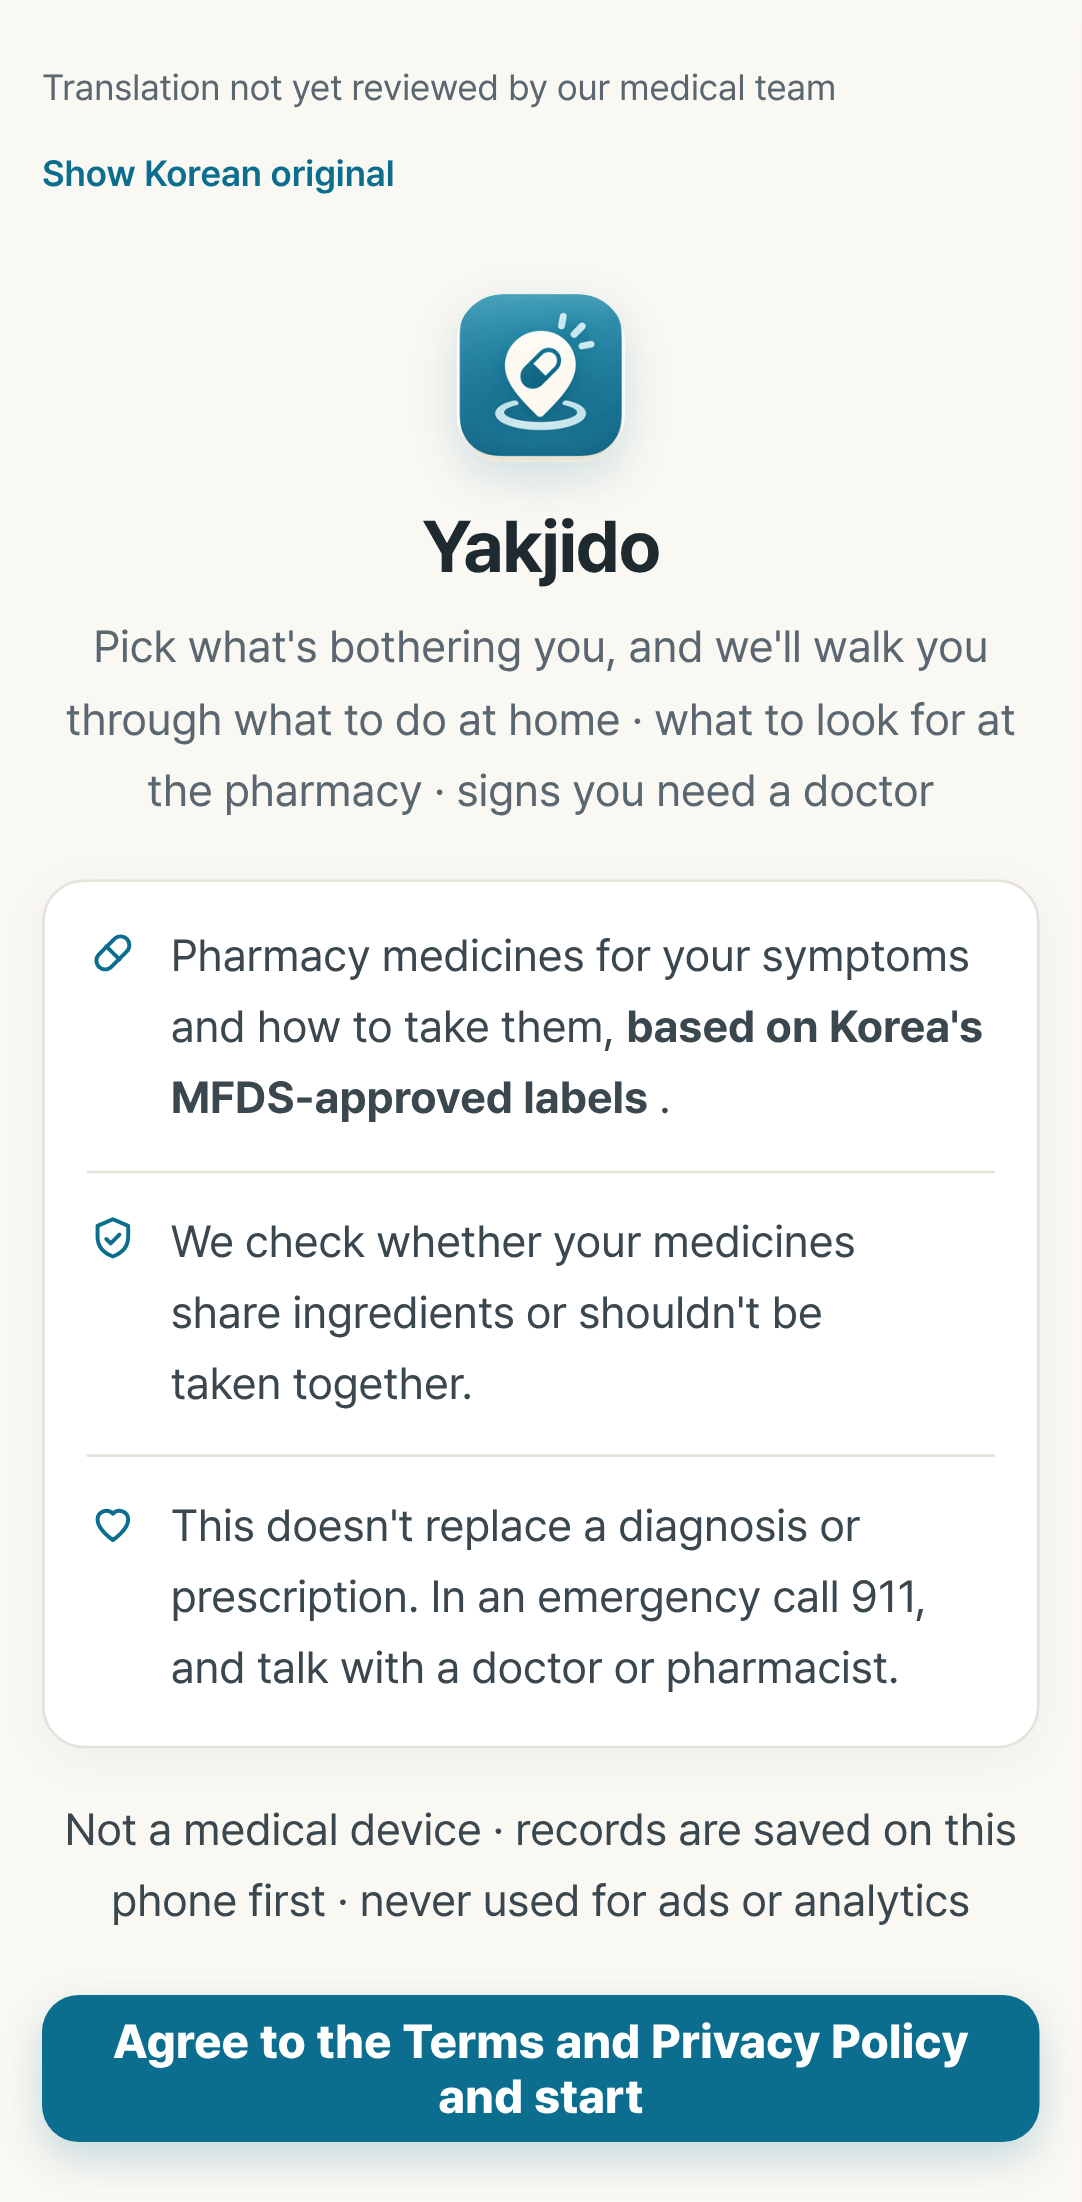
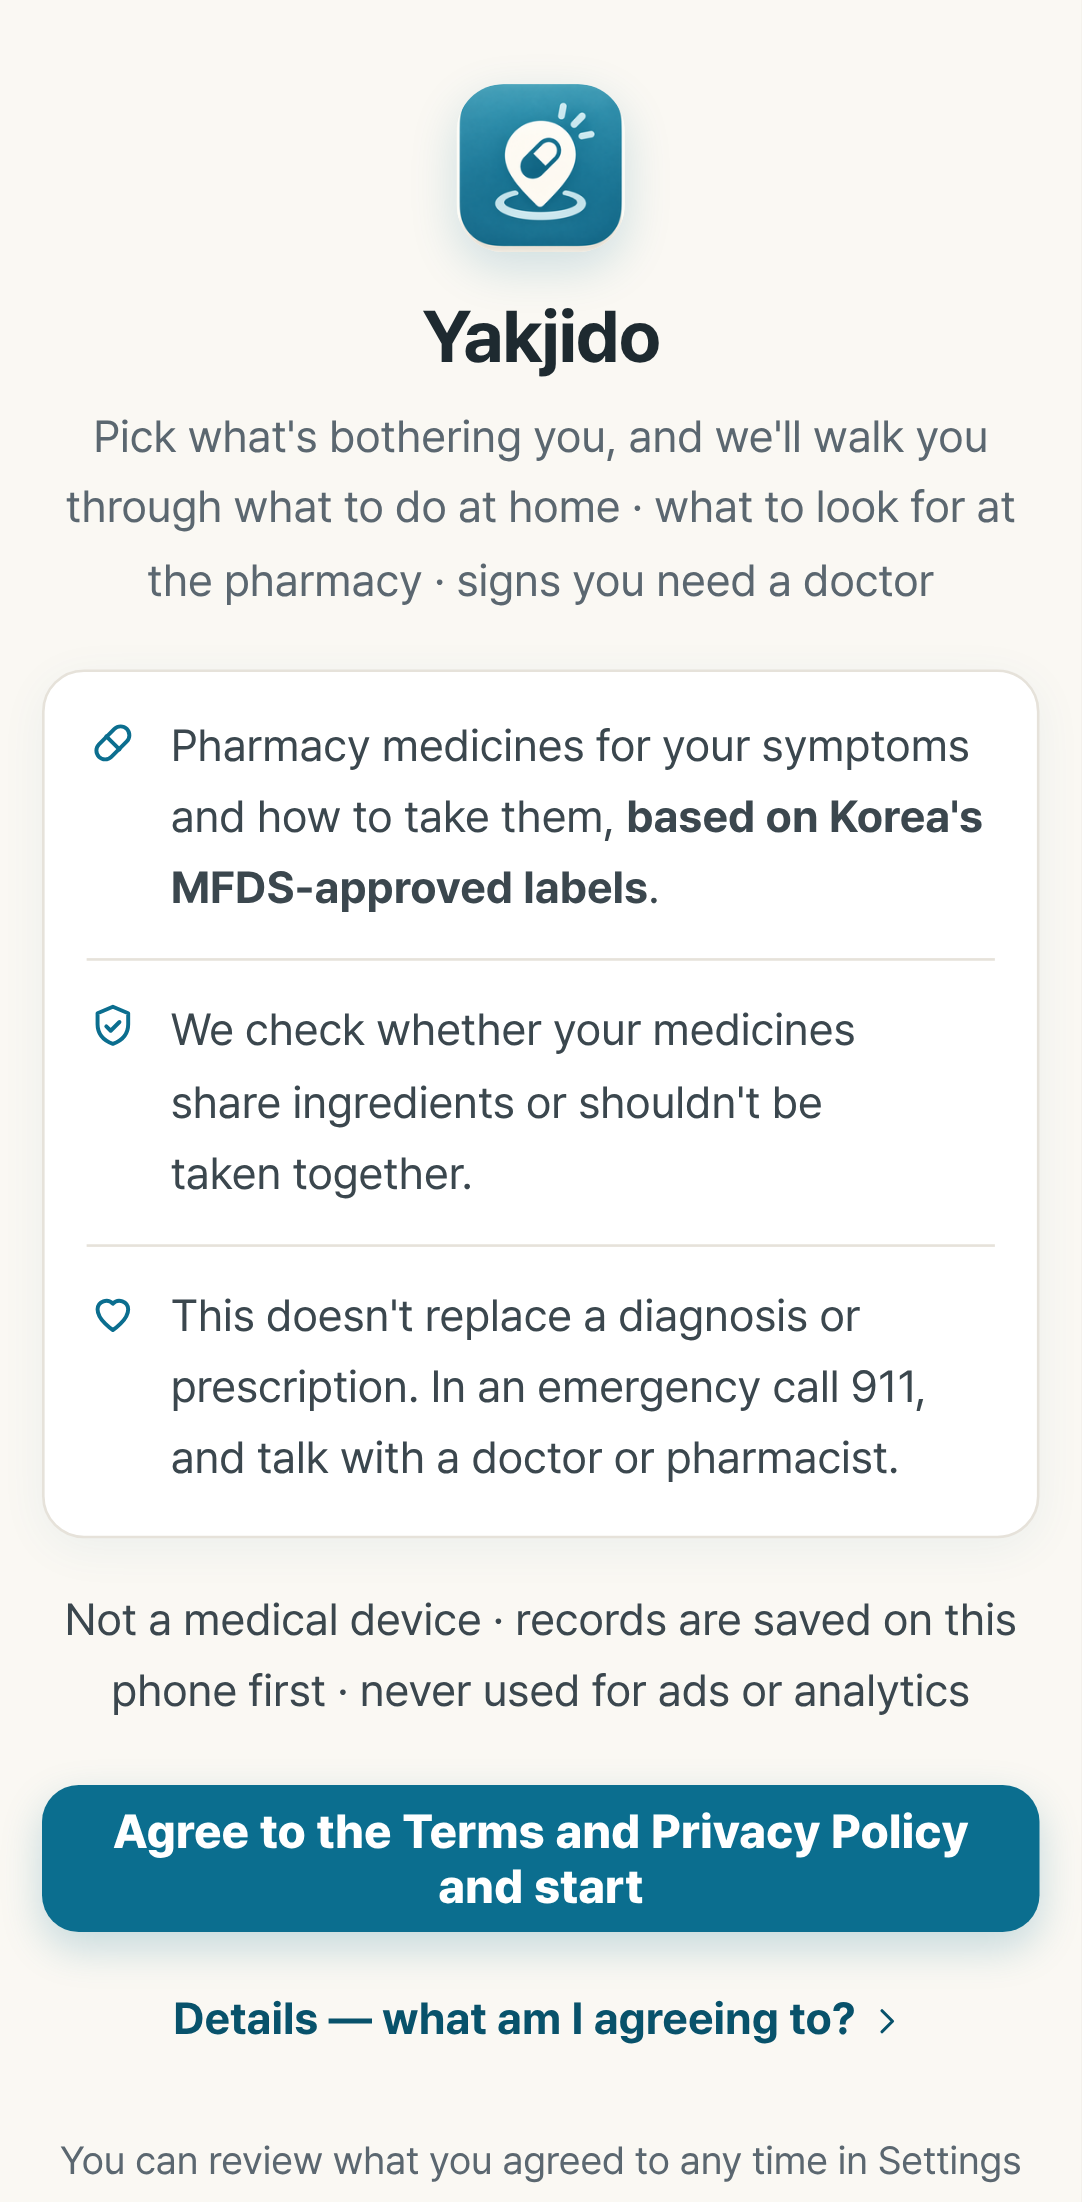
번역 검수 전 띠를 화면 맨 아래 작은 한 줄로(첫 3초 경고 금지) · 문장부호 앞 빈칸 없애기
Claude-Session: https://claude.ai/code/session_01EnA5kC7cG7NGAyuaz7gY2Z

diff --git a/docs/yakjido/i18n.js b/docs/yakjido/i18n.js
@@ -26,7 +26,7 @@
   st.textContent = '.lang-ja body,.lang-ja button,.lang-ja input,.lang-ja textarea{font-family:"Hiragino Sans","Hiragino Kaku Gothic ProN","Noto Sans CJK JP","Noto Sans JP","Yu Gothic UI","Meiryo","Pretendard Variable",system-ui,sans-serif}.lang-zh body,.lang-zh button,.lang-zh input,.lang-zh textarea{font-family:"PingFang SC","Hiragino Sans GB","Noto Sans CJK SC","Noto Sans SC","Microsoft YaHei","Pretendard Variable",system-ui,sans-serif}' +
     '.lang-ja *,.lang-zh *{word-break:normal!important;line-break:strict;overflow-wrap:anywhere}.lang-en *,.lang-es *{word-break:normal!important;overflow-wrap:break-word}' +
     'html:not(.lang-ko) .review-stamp{white-space:normal;flex:0 1 auto;min-width:0;text-align:right;line-height:1.25}html:not(.lang-ko) .chip,html:not(.lang-ko) .hq-c{white-space:normal;max-width:100%;min-width:0;overflow-wrap:anywhere}' +
-    '.i18n-note{display:flex;flex-wrap:wrap;gap:4px 10px;align-items:center;margin:6px 0 12px;font-size:.8125rem;color:var(--muted)}.i18n-note button{color:var(--primary);font-weight:600;min-height:36px}';
+    '.i18n-note{display:flex;flex-wrap:wrap;gap:4px 10px;align-items:center;margin:24px 0 8px;padding-top:10px;border-top:1px solid var(--hairline);font-size:.8125rem;color:var(--muted)}.i18n-note button{color:var(--primary);font-weight:600;min-height:36px}';
   document.head.appendChild(st);
 
   function 받기() {
@@ -86,7 +86,7 @@
     todo.forEach(function (n) {
       if (n.parentNode && /^(SCRIPT|STYLE|TEXTAREA)$/.test(n.parentNode.nodeName)) return;
       var v = n.nodeValue, t = L !== 'ko' ? 글(v) : null;
-      if (t != null) { var lead = v.match(/^\s*/)[0], tail = v.match(/\s*$/)[0]; v = lead + t + tail; }
+      if (t != null) { var lead = v.match(/^\s*/)[0], tail = v.match(/\s*$/)[0]; if (/^[.,:;!?。，、．）)]/.test(t)) lead = ''; v = lead + t + tail; }   /* 굵은 글씨로 나뉜 문장 — 「labels .」 빈칸 없애기 */
       v = 번호(v); if (v !== n.nodeValue) n.nodeValue = v;
     });
     el.querySelectorAll('[placeholder],[aria-label],[title]').forEach(function (e) {
@@ -96,10 +96,9 @@
   }
   function 알림줄(view) {
     if (L === 'ko' || !view || view.querySelector('.i18n-note')) return;
-    var top = view.querySelector('.topfind') || view.querySelector('.top');
     var d = document.createElement('div'); d.className = 'i18n-note';
     d.innerHTML = '<span>' + NOTE[L] + '</span><button type="button" onclick="setLang(\'ko\')">' + ORIG[L] + '</button>';
-    if (top && top.parentNode) top.parentNode.insertBefore(d, top.nextSibling); else view.insertBefore(d, view.firstChild);
+    view.appendChild(d);   /* 11-03 Main — 첫 3초에 경고가 먼저 보이지 않게 화면 맨 아래 작은 한 줄로(첫 진입 경고 벽 금지) */
     /* 약 용량 칸 — 「한국 허가 기준 — 사는 나라 약사와 확인」 */
     view.querySelectorAll('.dose-card,.dose-hero,.sv-dose').forEach(function (c) { if (c.querySelector('.i18n-kr')) return; var p = document.createElement('p'); p.className = 'i18n-kr small muted'; p.textContent = KRNOTE[L]; c.appendChild(p); });
   }

diff --git a/yakjido/i18n.js b/yakjido/i18n.js
@@ -26,7 +26,7 @@
   st.textContent = '.lang-ja body,.lang-ja button,.lang-ja input,.lang-ja textarea{font-family:"Hiragino Sans","Hiragino Kaku Gothic ProN","Noto Sans CJK JP","Noto Sans JP","Yu Gothic UI","Meiryo","Pretendard Variable",system-ui,sans-serif}.lang-zh body,.lang-zh button,.lang-zh input,.lang-zh textarea{font-family:"PingFang SC","Hiragino Sans GB","Noto Sans CJK SC","Noto Sans SC","Microsoft YaHei","Pretendard Variable",system-ui,sans-serif}' +
     '.lang-ja *,.lang-zh *{word-break:normal!important;line-break:strict;overflow-wrap:anywhere}.lang-en *,.lang-es *{word-break:normal!important;overflow-wrap:break-word}' +
     'html:not(.lang-ko) .review-stamp{white-space:normal;flex:0 1 auto;min-width:0;text-align:right;line-height:1.25}html:not(.lang-ko) .chip,html:not(.lang-ko) .hq-c{white-space:normal;max-width:100%;min-width:0;overflow-wrap:anywhere}' +
-    '.i18n-note{display:flex;flex-wrap:wrap;gap:4px 10px;align-items:center;margin:6px 0 12px;font-size:.8125rem;color:var(--muted)}.i18n-note button{color:var(--primary);font-weight:600;min-height:36px}';
+    '.i18n-note{display:flex;flex-wrap:wrap;gap:4px 10px;align-items:center;margin:24px 0 8px;padding-top:10px;border-top:1px solid var(--hairline);font-size:.8125rem;color:var(--muted)}.i18n-note button{color:var(--primary);font-weight:600;min-height:36px}';
   document.head.appendChild(st);
 
   function 받기() {
@@ -86,7 +86,7 @@
     todo.forEach(function (n) {
       if (n.parentNode && /^(SCRIPT|STYLE|TEXTAREA)$/.test(n.parentNode.nodeName)) return;
       var v = n.nodeValue, t = L !== 'ko' ? 글(v) : null;
-      if (t != null) { var lead = v.match(/^\s*/)[0], tail = v.match(/\s*$/)[0]; v = lead + t + tail; }
+      if (t != null) { var lead = v.match(/^\s*/)[0], tail = v.match(/\s*$/)[0]; if (/^[.,:;!?。，、．）)]/.test(t)) lead = ''; v = lead + t + tail; }   /* 굵은 글씨로 나뉜 문장 — 「labels .」 빈칸 없애기 */
       v = 번호(v); if (v !== n.nodeValue) n.nodeValue = v;
     });
     el.querySelectorAll('[placeholder],[aria-label],[title]').forEach(function (e) {
@@ -96,10 +96,9 @@
   }
   function 알림줄(view) {
     if (L === 'ko' || !view || view.querySelector('.i18n-note')) return;
-    var top = view.querySelector('.topfind') || view.querySelector('.top');
     var d = document.createElement('div'); d.className = 'i18n-note';
     d.innerHTML = '<span>' + NOTE[L] + '</span><button type="button" onclick="setLang(\'ko\')">' + ORIG[L] + '</button>';
-    if (top && top.parentNode) top.parentNode.insertBefore(d, top.nextSibling); else view.insertBefore(d, view.firstChild);
+    view.appendChild(d);   /* 11-03 Main — 첫 3초에 경고가 먼저 보이지 않게 화면 맨 아래 작은 한 줄로(첫 진입 경고 벽 금지) */
     /* 약 용량 칸 — 「한국 허가 기준 — 사는 나라 약사와 확인」 */
     view.querySelectorAll('.dose-card,.dose-hero,.sv-dose').forEach(function (c) { if (c.querySelector('.i18n-kr')) return; var p = document.createElement('p'); p.className = 'i18n-kr small muted'; p.textContent = KRNOTE[L]; c.appendChild(p); });
   }

diff --git a/docs/yakjido/sw.js b/docs/yakjido/sw.js
@@ -9,7 +9,7 @@
                        판이 같으면 캐시 그대로, 판이 바뀌면 새로 받아 넣고 옛 판은 지운다(prune).
    판 없는 옛 주소는 «캐시 먼저» — 한 번 받은 것은 즉시 열리고, 뒤에서 조용히 새로 받아 둔다.
    인터넷이 안 되면 어느 캐시에든 있는 사본을 준다(5-01 — 첫 방문 뒤 비행기 모드에서 본문이 안 뜨던 것). */
-const CACHE = 'yakjido-2026-11-03T04:10-0f98cb4a';
+const CACHE = 'yakjido-2026-11-03T04:59-e94a06df';
 const DATA = 'yakjido-data-v1';
 /* 기내 모드·바깥 파일 0(10-27) — 글꼴(fonts/)·로그인 프로그램(vendor/)은 배포 묶음 안. 판이 박힌 꾸러미라 내용이 안 바뀌니 «캐시 먼저», 앱 판이 바뀌어도 지우지 않는다(EXT).
    바깥 주소는 하나도 담지 않는다 — 서버 응답(supabase REST)·날씨는 그대로 지나간다(09-22 원칙) */

diff --git a/docs/yakjido/index.html b/docs/yakjido/index.html
@@ -1768,8 +1768,8 @@ background-repeat:no-repeat;background-position:right 9px center;background-size
 <script>
 window.__YAKJIDO_OK__ = true;
 const D = JSON.parse(document.getElementById('data').textContent || '{}');
-const BUILD = '2026-11-03 04:10';
-const DATAV = '9f5364b6b2'.indexOf('__') === 0 ? BUILD : '9f5364b6b2';
+const BUILD = '2026-11-03 04:59';
+const DATAV = '12d5dee011'.indexOf('__') === 0 ? BUILD : '12d5dee011';
 const BRANDMARK = (typeof window !== 'undefined' && window.__BRANDMARK__) || 'icon-192.png';
 let CORE = 0, CORE_P = null;
 function mergeCore(c){
